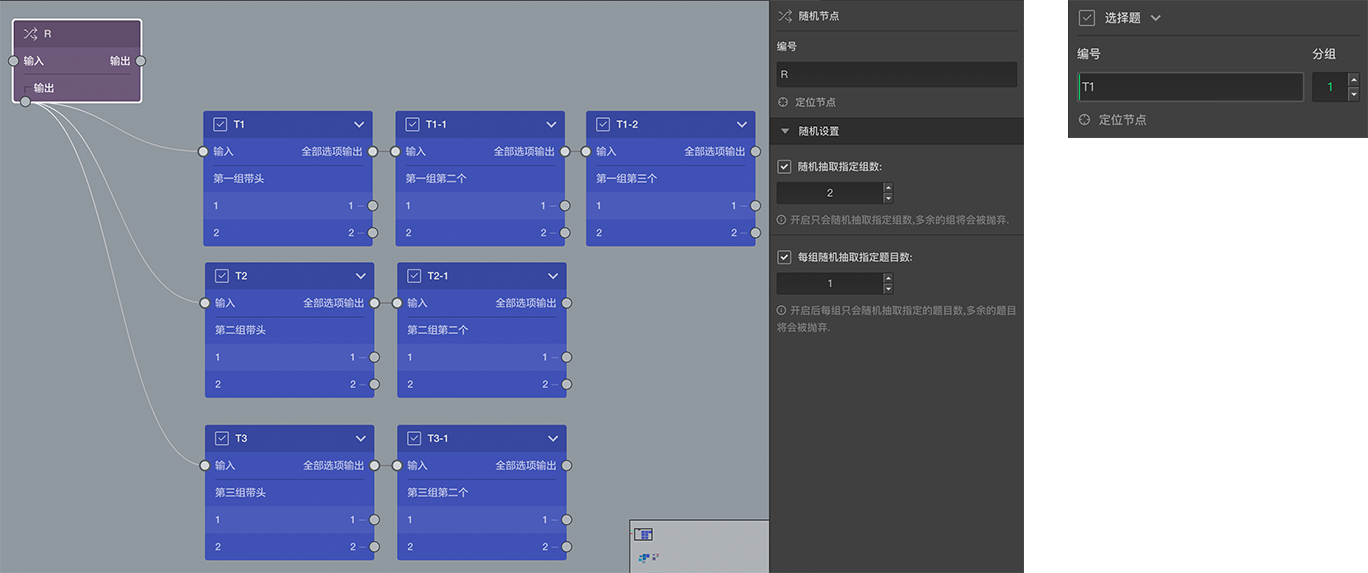
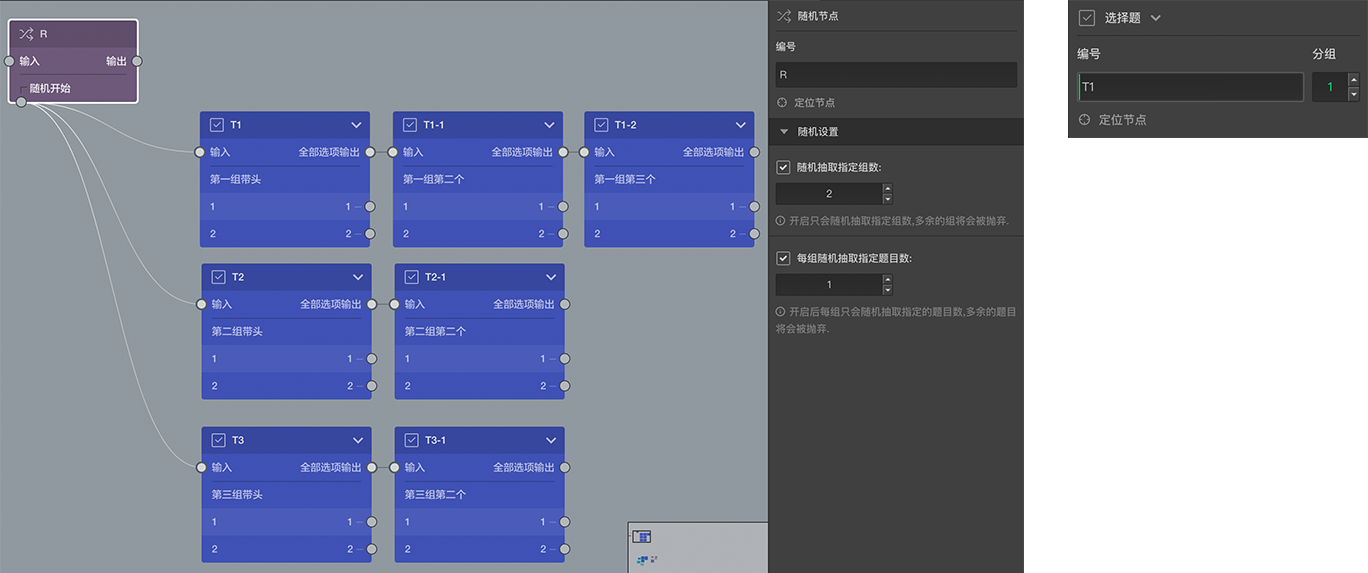
node introduction part 4

diff --git a/design/nodes/random.md b/design/nodes/random.md
@@ -8,3 +8,24 @@
 
 <img src='./images/random.png' width='1000'>
 
+在画布中，随机节点的底部有一个`随机开始`的输出口，这个输出可以输出多次，接在这后面的节点成为`随机组节点`，随机开始输出口输出多次会形成多个自然随机小组，每一组最前面的节点被称为`组头`。
+
+随机节点的默认作用就是在答题过程中打乱这些自然小组的出现顺序。
+
+如上图，随机开始输出了三次，形成了三个自然随机小组，每个小组可以包含任意题目数，答题的时候碰到这个这个随机节点时，系统会从这三个随机小组中随机抽出一个小组并问这些题目，当这个小组的题目问完后，会从剩下的小组中再抽出一组，如此重复，直到所有小组都抽完了，才会从随机节点的输出口去找后续的题目。
+> 只能控制随机小组出现的顺序，不能随机控制小组内题目的顺序，这些题目的顺序已经是确定的，如果真想控制单独一道道题随机出现的顺序，可以考虑单独一个题当一个组。
+
+
+除了随机控制小组出现的顺序，还可以随机控制出现的小组数量，以及每组随机出现的题目数量，这需要要右侧编辑面板中的随机设置中开启对应的控制开关
+### 随机抽取指定组数
+开启该项后可以在众多的随机组中抽取指定数量的一部分，其余的将会被丢弃。
+》 如上图中，开启并设置抽取2组，则随机过程中另外的某一组将会被丢弃。
+最大组数是自然小组的数量，但是还可以认为干涉，每个组的`组头`的右侧编辑面板中头部编号的右边会有一个分组输入框，在这里可以人为的为每个组设置分组编号，相同分组编号的多个自然随机小组，在随机抽取指定数量的时候会被看成是一组成为`实际随机分组`，当所有组头的编号都是默认的`N`时，实际随机分组的数量等于自然随机小组的数量，当某些组头的编号不是`N`且和其他某个些组头的编号相同时，实际随机分组的数量小于自然随机小组的数量。
+> 如上图中，如果将第二组和第三组的的组头编号都设置为2，则实际随机小组的数量就会从3降为2，这时候又有小组又能全部不被展示了。
+
+> `实际随机分组`只会在随机抽取组数时生效,虽然第二组和第三组被合并到了实际随机分组，但是它们谁先出现依然是随机的。
+
+### 每组随机抽取指定题目数
+开启后从每一`自然随机小组`众多的题目中随机展示指定数量的题目，其余的将被丢弃。
+> 如上图中，设置了从每一组中随机抽取1题，则最终展示时第一组中有2题会被抛弃，2和3组中分别有一题会被抛弃，具体哪些题目被展示被抛弃是随机的，但最终肯定只有3道题目（每组一题）会被展示出来。
+

diff --git a/design/nodes/site.md b/design/nodes/site.md
@@ -3,3 +3,14 @@
 > 节点和题目的通用的设置在[节点设置](../node-setting/concept.md)中有讲解，此处只讲解该节点或题目特有的功能。
 
 > 在更改设置时，可以配合使用[实时预览](../preview/realtime.md)和[完整预览](../preview/full.md)来查看效果。
+
+范围定位题允许设置多个选项，每隔选项设置一个中心点和范围半径，让用户定位，来确定用户是否在某个范围内。
+
+点击右侧编辑栏总的编辑选项按钮，就会打开一个地图页面，在搜索框中输入目标搜索以后，地图上会出现很多搜索结果点，点击某个搜索结果点，会看到该点的地址信息标签，标签上还有一个添加按钮，点击该按钮，就可以将该搜索结果点转化为一个目标选项，如果觉得这个搜索结果点的位置不够准确，可以拖拽该点到满意的位置后再点添加按钮；添加完后会出现一个圆圈，默认半径500米，可以拖拽该圆圈上的小方块来调整半径。
+
+可以添加多个范围作为选项，默认会有一个不可删除的其他选项。
+
+在答题页中会展示一个定位图标，答题者点击后会定位，当定位成功后系统会检测定位结果是否在某个选项指定的范围内，如果在范围内，就会选中该选项，如果一个选项的范围都没命中，就会选中其他选项。
+
+
+> 这个题目对答题者的网络质量要求比较高，否则定位可能出现偏差，请谨慎使用

diff --git a/design/nodes/rank.md b/design/nodes/rank.md
@@ -3,3 +3,18 @@
 > 节点和题目的通用的设置在[节点设置](../node-setting/concept.md)中有讲解，此处只讲解该节点或题目特有的功能。
 
 > 在更改设置时，可以配合使用[实时预览](../preview/realtime.md)和[完整预览](../preview/full.md)来查看效果。
+
+排序题提供一堆选项，让答题者对他们排序。
+
+<img src='./images/rank.png' width='600'>
+
+### 排序目标
+在画布中排序题的的选项默认没有输出口，在右侧编辑栏中每个选项中都有一个勾选项，开启后可以将该选项作为排序关注目标，这时候画布中的选项会出现输出口，和选择题的选项输出口不一样，这里的选项输出，是指如果排序关注目标被排到该选项所在的位置，就从这里出去找下一题。
+
+如上图中，我们勾选了菠菜为排序目标，同时从第一个选项中输出到大力水手的描述节点，意思是说如果某个人将菠菜排在第一位，我们就说他是大力水手，否则会走总输出口到达凡人的描述节点。
+
+> 同时只能设定一个选项为排序关注目标，如果想关注多个排序目标并决定后面的题目，则需要使用[逻辑节点](./logic.md)
+
+
+### 设置排序数量
+默认情况下，排序题要求所有选项的序号都排出来才能进行下一题，手动设置排序数量后，则达到改数量就可以下一题。

diff --git a/design/nodes/rate.md b/design/nodes/rate.md
@@ -3,3 +3,17 @@
 > 节点和题目的通用的设置在[节点设置](../node-setting/concept.md)中有讲解，此处只讲解该节点或题目特有的功能。
 
 > 在更改设置时，可以配合使用[实时预览](../preview/realtime.md)和[完整预览](../preview/full.md)来查看效果。
+
+
+打分题让答题者进行打分，可以包含多个选项，对每个选项进行打分。
+
+##打分设置
+打分题有两种表现形式：图形打分和分值打分
+### 图形打分 
+可以设置一个图形，以及指定图像数量，答题页中每隔选项都会展示指定数量的图像，答题者点击图形进行打分操作
+
+### 分值打分
+分值打分可以设置分值范围，分值步进，分值描述，答题页中会展示滑竿，答题者拖动滑竿进行评分。
++ 分值范围：即最小分值和最大分值，会显示在答题也滑竿的两端。
++ 分值步进：答题页中每次拖动滑竿所造成的分值变化。
++ 分值描述：分别试着对低分和高分的描述，会显示在答题页滑竿的两端。

diff --git a/design/nodes/start.md b/design/nodes/start.md
@@ -3,3 +3,20 @@
 > 节点和题目的通用的设置在[节点设置](../node-setting/concept.md)中有讲解，此处只讲解该节点或题目特有的功能。
 
 > 在更改设置时，可以配合使用[实时预览](../preview/realtime.md)和[完整预览](../preview/full.md)来查看效果。
+
+开始节点是问卷答题的最开头，一份问卷有且仅有一个开始节点，且无法被删除。
+答题开始答题时，会显示问卷的封面，用户点击封面的开始按钮后会进入到答题页面。
+选中开始节点后，右侧编辑栏可以编辑一些问卷封面信息
+
+### 问卷标题
+封面中展示的标题，如果不设置，则封面中会展示问卷[项目名称](../layout/global-setting.md#项目名称)
+
+### 问卷描述
+封面中展示的描述
+
+### 自动跳过首页开始答题
+开启后，问卷封面不会被展示，而是直接到答题页面。
+
+### 内嵌页面
+指定一个url地址，封面将会展示该url地址的页面
+

diff --git a/design/nodes/screening.md b/design/nodes/screening.md
@@ -3,3 +3,12 @@
 > 节点和题目的通用的设置在[节点设置](../node-setting/concept.md)中有讲解，此处只讲解该节点或题目特有的功能。
 
 > 在更改设置时，可以配合使用[实时预览](../preview/realtime.md)和[完整预览](../preview/full.md)来查看效果。
+
+甄别节点用于隔离`普通题目`和用于`甄别题目`。
+
+在画布中的连线中加入甄别节点之后，整个问卷流中，甄别节点之前的题目会变成灰色，只有的仍然是自己的颜色，这些变成灰色的题目被称为`甄别题目`，为变灰的则是`普通题目`
+
+### 甄别题目
+甄别题目在系统配置收集器和分析答案中会有特殊用途，在配置收集器时可以设置配额，配额的分配就中就要用到这分问卷的`甄别题目`以及它们的选项，在分析答案时，甄别题目的数据可能也会特殊对待。
+
+> 关于配额，请参照[甄别与配额](../advance-topic/screening-quota.md)

diff --git a/design/nodes/slide-rate.md b/design/nodes/slide-rate.md
@@ -3,3 +3,12 @@
 > 节点和题目的通用的设置在[节点设置](../node-setting/concept.md)中有讲解，此处只讲解该节点或题目特有的功能。
 
 > 在更改设置时，可以配合使用[实时预览](../preview/realtime.md)和[完整预览](../preview/full.md)来查看效果。
+
+演示评价题是一种打分题，他的每隔打分项会被单独显示，每次只能针对一个选项进行评分，通过点击不同的图标或文字来进行评分，每个选项还可以添加图片。
+
+### 评价设置
+
+可以添加多个评价设置项，每个项目代表不同的分值，默认分支就是评价项出现位置的序号如：1，2，3.
+
+可以设置简单的文字说明或添加图标来形象表达该评价项所在位置代表的分值的意义。
+

diff --git a/design/nodes/logic.md b/design/nodes/logic.md
@@ -36,3 +36,7 @@
 4. `R1`中`空虚`项评分小于`2`
 
 里面使用的逻辑类型是`逻辑与(AND）`，也就是当上述条件都满足时，这个逻辑节点的最终运算结构为`真`，下一题从`Y`输出口寻找到`DESCRIPTIVE_1`将显示`你心态很乐观`；否则为`假`，下一题从`N`输出口寻找到`DESCRIPTIVE_2`将显示`你还不够乐观`。
+
+> 使用逻辑节点是通用的问卷分支流程控制方法
+
+> 单选选择题，有目标的排序题等某些题目自己的选项可以快速决定去往的下一题题目，也达到问卷分支流程控制，其实这只是快捷方式，用逻辑节点同样可以实现这样的功能，这个可以自己动手试试哦，可参照[逻辑编辑面板](../logic/logic-editor.md)

diff --git a/design/node-setting/custom-validation.md b/design/node-setting/custom-validation.md
@@ -20,7 +20,7 @@
 
 ### 接口请求验证
 
-> 前提：使用本功能需要对编程知识有所了解。
+> 前提：该功能要求问卷设置者拥有编程能力，或者寻找程序员小伙伴帮忙。
 
 对于基本验证的无法完成的任务，可通过接口请求验证来完整验证，顾名思义就是通过请求一个配置好的接口，通过检查接口返回的结果来决定验证有没有通过，请求接口时可以携带参数,如果没有通过验证，接口返回的内容中还可以携带未通过的原因，用户答题时可以看到改原因。
 

diff --git a/design/nodes/choice.md b/design/nodes/choice.md
@@ -6,6 +6,10 @@
 
 选择题提供一堆选项以供选择。
 
+在画布中单选状态的选择题的选项都会有个输出口，从该输出口输出连线代表：答题者在此题中如果选中该选项则沿着该条线去寻找下一题，如果选中了没有输出线的选项，则沿总输出口的连线去寻找下一题。
+
+> 如果变成多选题，或者对于填空题，打分题的，选项就不会有输出口了，如果仍然想根据答案决定后续去往的题目，需要使用[逻辑节点](./logic.md)
+
 ## 选项附加设置
 
 ### 选项备注

diff --git a/design/nodes/verify.md b/design/nodes/verify.md
@@ -3,3 +3,7 @@
 > 节点和题目的通用的设置在[节点设置](../node-setting/concept.md)中有讲解，此处只讲解该节点或题目特有的功能。
 
 > 在更改设置时，可以配合使用[实时预览](../preview/realtime.md)和[完整预览](../preview/full.md)来查看效果。
+
+
+验证节点通过一些验证手段，来确定答题者是否符合要求，不能通过验证的答题者无法继续答题。
+
